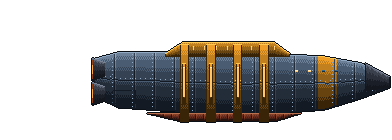
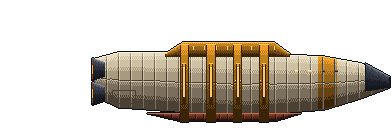
Hull templates: Solari's hull is white heat-shield tile, not Korvan's steel (Jon: C)
Claude-Session: https://claude.ai/code/session_01FQemMvme1wfvjCSMpMkDgS

Changed region(s): [[0.2143, 0.3714, 1.0, 0.8286]]

diff --git a/tkg/art/tools/hull_template.py b/tkg/art/tools/hull_template.py
@@ -68,6 +68,10 @@ MAT = {
     'chitin': R('#26302b', '#45524a', '#6c7a70', '#96a498', '#bfcbbd', '#dde6da'),
     'cold': R('#182636', '#283e56', '#3a5876', '#5c82a4', '#8cb6d4', '#b8dcee'),
     'gun': R('#14171d', '#1a1e26', '#2a2f39', '#3a404c', '#5c6474', '#7a8494'),
+    # Solari's white heat-shield (Jon, Oct 15: "C", over bronze and black ceramic):
+    # pale ceramic tile, so the brass rings and dark nose stand out and it is
+    # nobody's steel.
+    'tile': R('#4a4034', '#7a6e5c', '#a89a80', '#cfc2a4', '#e8dcc0', '#f8efda'),
 }
 INK = hx('#0b0f16')
 GLASS = R('#162e40', '#3a6b8c')
@@ -151,20 +155,20 @@ def crest(x0, x1, top, n):
 SPECS = {
  'solari': {
   'light': {'parts': [
-     P(('prof', [(.44, .47, .65), (.8, .51, .61), (1, .55, .57)]), seams=20, rivets=True, band=(.62, .70)),
-     P(('prof', [(.04, .40, .72), (.18, .34, .82), (.38, .35, .82), (.50, .40, .74), (.60, .45, .68)]), seams=14, rivets=True, belt=.55,
+     P(('prof', [(.44, .47, .65), (.8, .51, .61), (1, .55, .57)]), 'tile', seams=12, rivets=False, band=(.62, .70)),
+     P(('prof', [(.04, .40, .72), (.18, .34, .82), (.38, .35, .82), (.50, .40, .74), (.60, .45, .68)]), 'tile', seams=8, rivets=False, belt=.55,
        ports=[(.32, .45, .9, 3, 3, 2, 1)], hatch=[(.6, .6, .85, .85)]),
      P(('poly', [(.12, .80), (.40, .80), (.35, .87), (.17, .87)]), 'brick', seams=6)] + crest(.12, .44, .34, 6) + rings(.12, .44, .34, .84, 3),
    'kit': [],
    'noz': [(.50, .12), (.68, .12)]},
   'medium': {'parts': [
-     P(('prof', [(0, .40, .70), (.1, .34, .78), (.5, .34, .82), (.75, .38, .78), (.9, .44, .70), (1, .50, .64)]), seams=18,
-       rivets=True, belt=.48, ports=[(.3, .62, .8, 4, 3, 2, 2)], band=(.68, .74)),
+     P(('prof', [(0, .40, .70), (.1, .34, .78), (.5, .34, .82), (.75, .38, .78), (.9, .44, .70), (1, .50, .64)]), 'tile', seams=10,
+       rivets=False, belt=.48, ports=[(.3, .62, .8, 4, 3, 2, 2)], band=(.68, .74)),
      P(('poly', [(.16, .80), (.62, .80), (.55, .87), (.24, .87)]), 'brick', seams=8)] + crest(.12, .56, .34, 9) + rings(.12, .56, .34, .82, 3),
    'kit': [],
    'noz': [(.48, .12), (.64, .12)]},
   'heavy': {'parts': [
-     P(('prof', [(0, .40, .74), (.08, .34, .84), (.5, .34, .92), (.78, .38, .86), (.9, .44, .76), (1, .56, .66)]), seams=20, rivets=True,
+     P(('prof', [(0, .40, .74), (.08, .34, .84), (.5, .34, .92), (.78, .38, .86), (.9, .44, .76), (1, .56, .66)]), 'tile', seams=12, rivets=False,
        belt=.5, ports=[(.28, .66, .84, 4, 3, 2, 2)], band=(.76, .82), hatch=[(.06, .6, .14, .8)]),
      P(('poly', [(.18, .90), (.70, .90), (.62, .96), (.28, .96)]), 'brick', seams=8),
      P(('poly', [(.92, .44), (1, .56), (1, .66), (.92, .70)]), 'gun')] + crest(.26, .62, .34, 9) + rings(.26, .62, .34, .92, 4),
@@ -391,7 +395,7 @@ def render(maker, weight):
             continue
         bx0, by0, bx1, by1 = bb
         r = acc if part['mat'] == 'acc' else MAT[part['mat']]
-        hull_plate = part['mat'] in ('steel', 'dark', 'olive', 'rust', 'enamel', 'chitin', 'cold')
+        hull_plate = part['mat'] in ('steel', 'dark', 'olive', 'rust', 'enamel', 'chitin', 'cold', 'tile')
         # fill, lit column by column on the part's own extent
         cols = {}
         for cx in range(bx0, bx1):
